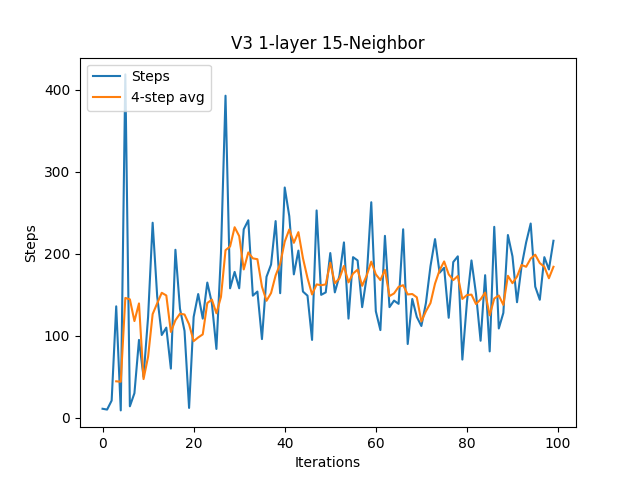
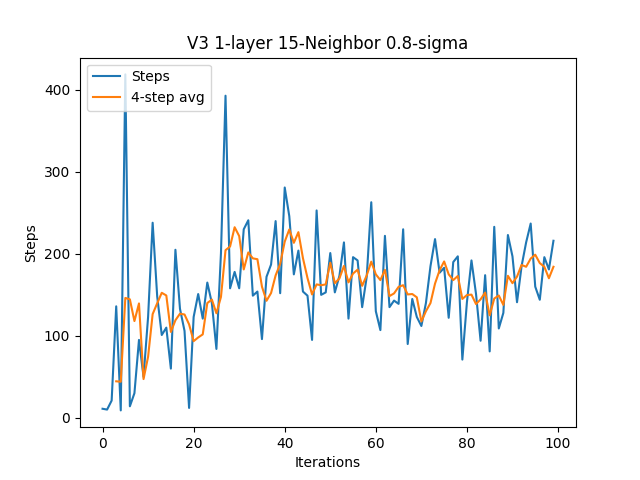
Small changes (probably)

Changed region(s): [[0.2812, 0.0625, 0.75, 0.125]]

diff --git a/cartPole/TreeV3Client.py b/cartPole/TreeV3Client.py
@@ -14,11 +14,12 @@ from classes.TreeV3 import *
 
 
 ############### Constants ###################
-CUTOFFPOINT = 250
+CUTOFFPOINT = 100
 SHOW_GAMES = False
 START_STRATEGY = EXPLORE
-LAYERS_CHECKED = 3
+LAYERS_CHECKED = 2
 NEIGHBORS = 15
+SIGMA = 0.5
 
 
 
@@ -37,7 +38,11 @@ DETERMINISTIC = False
 SEMI_DETERMINISTIC = 10
 ########### End constants #################
 
-path = f"plots\\treeV3\\{str(LAYERS_CHECKED)}-layer\\{CUTOFFPOINT}_gens"
+if SIGMA != 0.8:
+    sigma_path = f"{str(SIGMA)}-sigma\\"
+else:
+    sigma_path = ""
+path = f"plots\\treeV3\\{sigma_path}{str(LAYERS_CHECKED)}-layer\\{CUTOFFPOINT}_gens"
 fileHelper.createDirIfNotExist(path)
 
 if SHOW_GAMES:
@@ -77,7 +82,7 @@ def run_standard(show_results=True, save_results=True):
     iterations = 0
     data = np.array([], dtype=int)
 
-    tree = TreeV3(observation, num_nodes_checked=NEIGHBORS, layers_checked=LAYERS_CHECKED)
+    tree = TreeV3(observation, num_nodes_checked=NEIGHBORS, layers_checked=LAYERS_CHECKED, sigma=SIGMA)
     action = tree.pick_action()
     actionstring += str(action)
 
@@ -121,7 +126,7 @@ def run_standard(show_results=True, save_results=True):
     plt.xlabel("Iterations")
     plt.ylabel("Steps")
     plt.legend(loc="upper left")
-    plt.title(f"V3 {LAYERS_CHECKED}-layer {NEIGHBORS}-Neighbor")
+    plt.title(f"V3 {LAYERS_CHECKED}-layer {NEIGHBORS}-Neighbor {SIGMA}-sigma")
 
     plot_name = path + f"\\{NEIGHBORS}N-plot.png"
     if save_results:

diff --git a/classes/TreeV3.py b/classes/TreeV3.py
@@ -6,12 +6,13 @@ from classes.State import *
 
 
 class TreeV3:
-    def __init__(self, observation, num_nodes_checked=3, stop_exploring_distance=0.2, layers_checked=1):
+    def __init__(self, observation, num_nodes_checked=3, stop_exploring_distance=0.2, layers_checked=1, sigma=0.8):
         self.state_actions = [[], []]
         self.state_actions_linalg = [np.zeros((0, 4)), np.zeros((0, 4))]
         self.nodes = {}
         self.nodes_array = []
         self.nodes_array_linalg = np.zeros((0, 4))
+        self.sigma = sigma
         self.current_node = self.create_new_node(State(observation))
         self.visited_nodes = []
         self.steps_alive = 0
@@ -214,7 +215,7 @@ class TreeV3:
             node = self.nodes[state]
             raise Exception("Repeat node, this should not happen")
         else:
-            node = TreeNodeV3(state)
+            node = TreeNodeV3(state, ev_multiplier=self.sigma)
         return node
 
     def new_state_from_average(self, state, nodes, action):

diff --git a/cartPole/cartPoleKNearestMoreMem.py b/cartPole/cartPoleKNearestMoreMem.py
@@ -3,6 +3,7 @@ import pygame
 import numpy as np
 import matplotlib.pyplot as plt
 import pandas as pd
+import random
 
 import helper.plotHelper as plotHelper
 import helper.KNearestNeighbor as kNearest
@@ -27,6 +28,8 @@ K_END = 6
 K_STEP = 1
 
 SHORT_TERM_MEM_LENGTH = 7
+
+DETERMINISTIC = False
 ########### End constants #################
 
 path = f"plots\\kNearestMem\\{ANGLE}_angle\\{SHORT_TERM_MEM_LENGTH}_mem_len\\{CUTOFFPOINT}_gens"
@@ -43,13 +46,13 @@ else:
     window_width = MANUAL_ROLLING_AVERAGE
 
 
-
 def run_k_nearest(k=-1, show_results=True, save_results=True, window_width=5):
     if k > 0:
         kNearest.K = k
     env = gym.make("CartPole-v1", render_mode=render_mode)
     env.action_space.seed(0)
     np.random.seed(0)
+    random.seed(0)
 
     observation, info = env.reset(seed=0)
 

diff --git a/cartPole/StandardTreeV2.py b/cartPole/StandardTreeV2.py
@@ -19,7 +19,7 @@ BUCKET_ACCURACY = 0.1
 SHOW_GAMES = False
 START_STRATEGY = EXPLORE
 STEPS_PER_NODE = 1
-NEIGHBORS = 7
+NEIGHBORS = 4
 
 
 # TODO steps 5 neighbors 1 why
@@ -35,7 +35,7 @@ K_START = 1
 K_END = 1
 K_STEP = 1
 
-DETERMINISTIC = False
+DETERMINISTIC = True
 SEMI_DETERMINISTIC = 10
 ########### End constants #################
 
